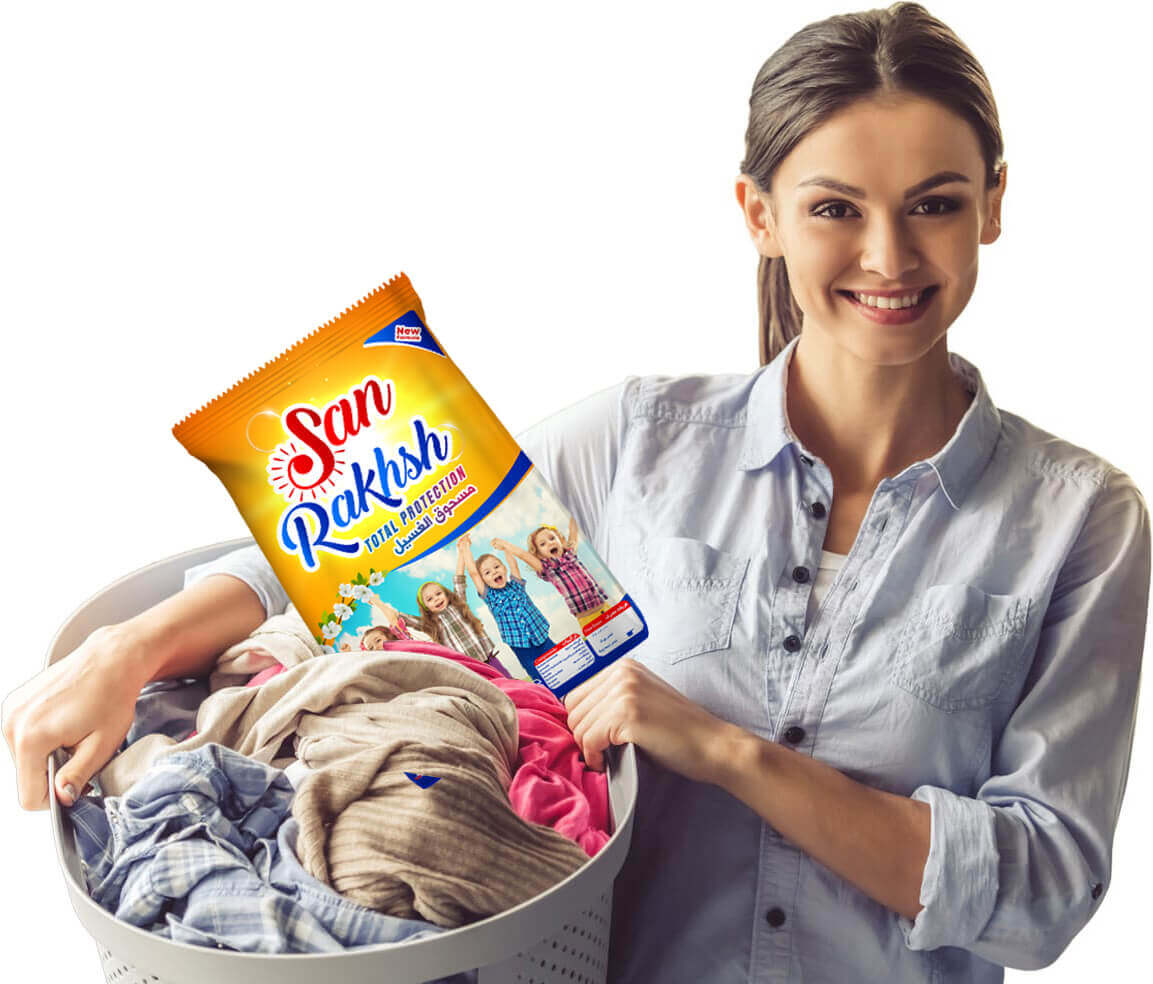
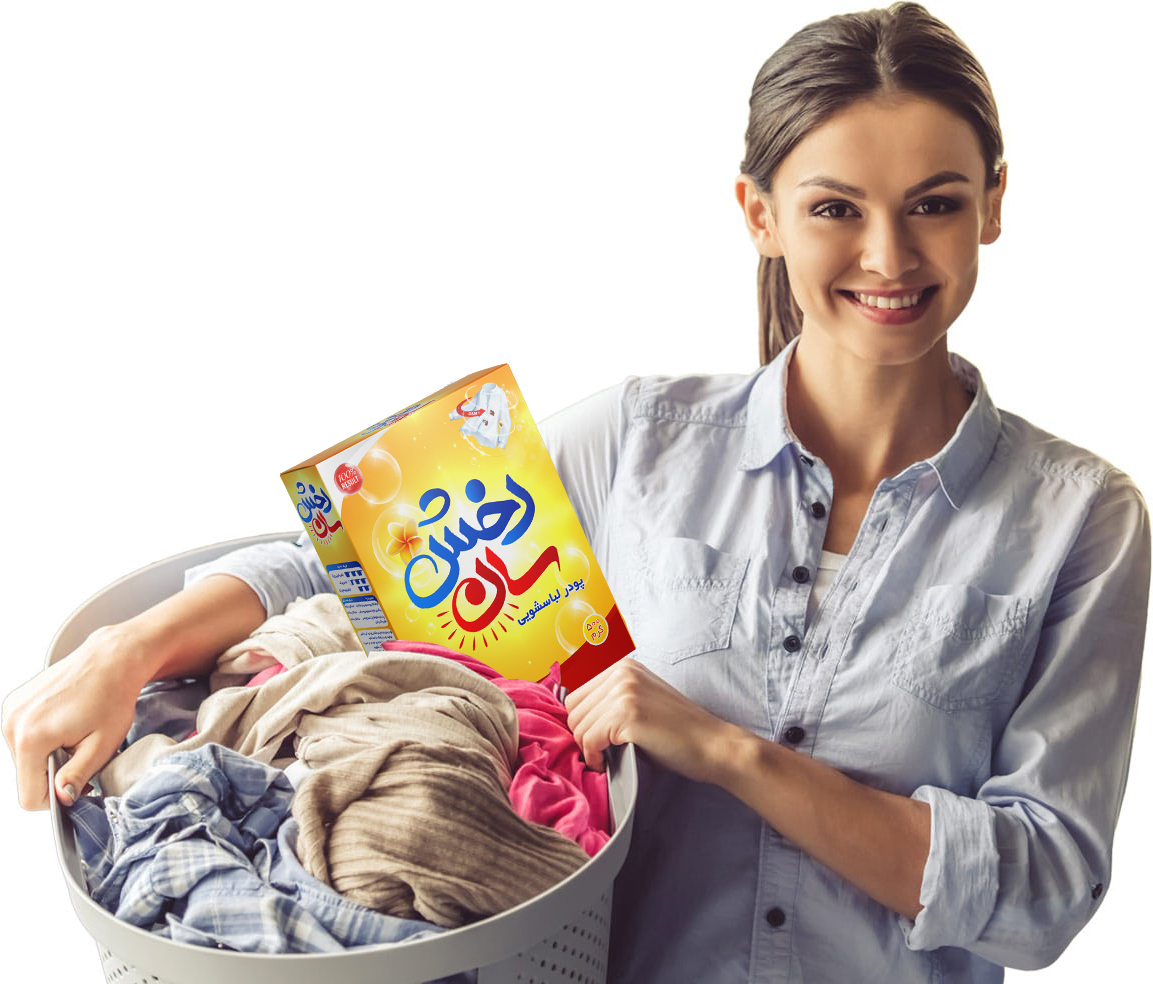
chore: change product images

Changed region(s): [[0.1249, 0.2744, 0.562, 0.7317], [0.3435, 0.7622, 0.3747, 0.8232]]

diff --git a/src/pages/Products/index.vue b/src/pages/Products/index.vue
@@ -41,12 +41,12 @@ export default {
           {
             name: 'نرم کننده لباس',
             // description: '',
-            image: require('@/assets/images/products/p05.jpg'),
+            image: require('@/assets/images/products/p07.jpg'),
           },
           {
-            name: 'نرم کننده لباس',
+            name: 'نرم کننده لباس بزرگ',
             // description: '',
-            image: require('@/assets/images/products/p05.jpg'),
+            image: require('@/assets/images/products/p08.jpg'),
           },
         ],
       }
@@ -79,10 +79,10 @@ export default {
           {
             name: 'مایع لباسشویی',
             // description: 'بهترین نرم کننده جهان',
-            image: require('@/assets/images/products/p05.jpg'),
+            image: require('@/assets/images/products/p06.jpg'),
           },
           {
-            name: 'مایع لباسشویی',
+            name: 'مایع لباسشویی بزرگ',
             // description: 'بهترین نرم کننده جهان',
             image: require('@/assets/images/products/p05.jpg'),
           },

diff --git a/src/pages/Products/Softner/index.vue b/src/pages/Products/Softner/index.vue
@@ -48,16 +48,16 @@ export default {
         description: this.text,
         products: [
           {
-            name: 'نرم کننده اول',
-            description: 'بهترین نرم کننده جهان',
-            image: require('@/assets/images/products/01.jpeg')
+            name: 'نرم کننده لباس',
+            // description: '',
+            image: require('@/assets/images/products/p07.jpg'),
           },
           {
-            name: 'نرم کننده بزرگ',
-            description: 'بهترین نرم کننده جهان',
-            image: require('@/assets/images/products/02.jpeg')
-          }
-        ]
+            name: 'نرم کننده لباس بزرگ',
+            // description: '',
+            image: require('@/assets/images/products/p08.jpg'),
+          },
+        ],
       };
     }
   },

diff --git a/src/pages/Products/WashingLiquid/index.vue b/src/pages/Products/WashingLiquid/index.vue
@@ -50,10 +50,10 @@ export default {
           {
             name: 'مایع لباسشویی',
             // description: 'بهترین نرم کننده جهان',
-            image: require('@/assets/images/products/p05.jpg')
+            image: require('@/assets/images/products/p06.jpg')
           },
           {
-            name: 'مایع لباسشویی',
+            name: 'مایع لباسشویی بزرگ',
             // description: 'بهترین نرم کننده جهان',
             image: require('@/assets/images/products/p05.jpg')
           }
